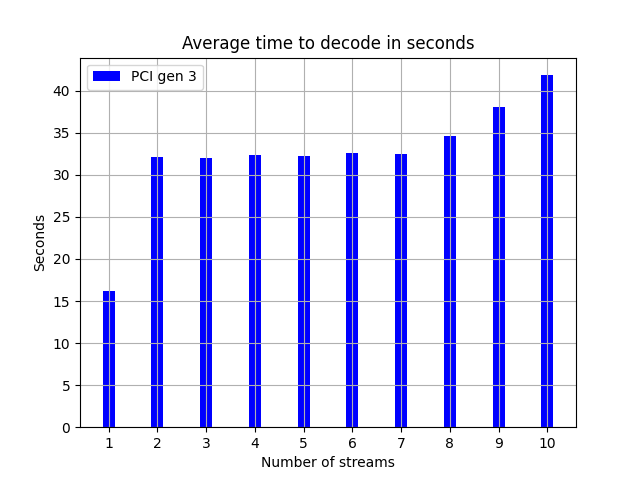
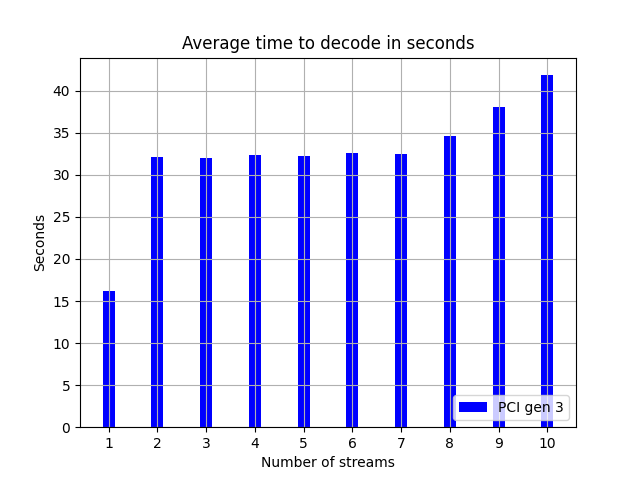
new placing of legend

Changed region(s): [[0.6875, 0.8125, 0.9062, 0.9062], [0.125, 0.125, 0.3125, 0.1875]]

diff --git a/handin_2/build_graphs.py b/handin_2/build_graphs.py
@@ -113,7 +113,7 @@ def build_stress_test_bar_chart(test_type:str, report_name = None, dir = DATA_FO
 
     for i, n in enumerate(names):
         plt.figure(i)
-        plt.legend()
+        plt.legend(loc="lower right")
         plt.grid()
         plt.xticks([r + bar_width for r in range(0, FOLDS - 1)], [i for i in range(1, FOLDS)])
         plt.xlabel("Number of streams")
